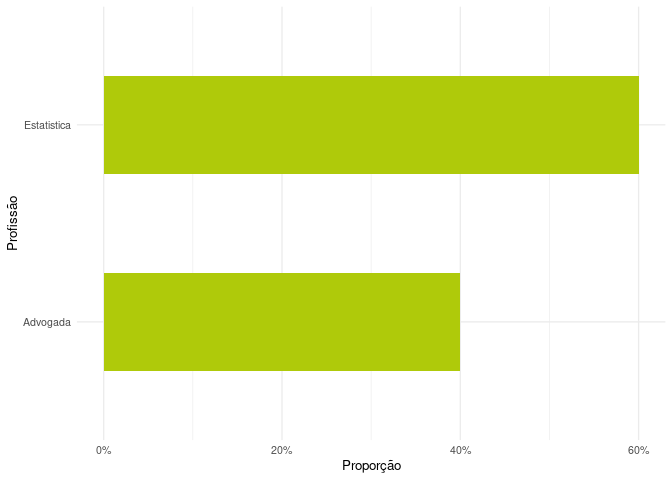
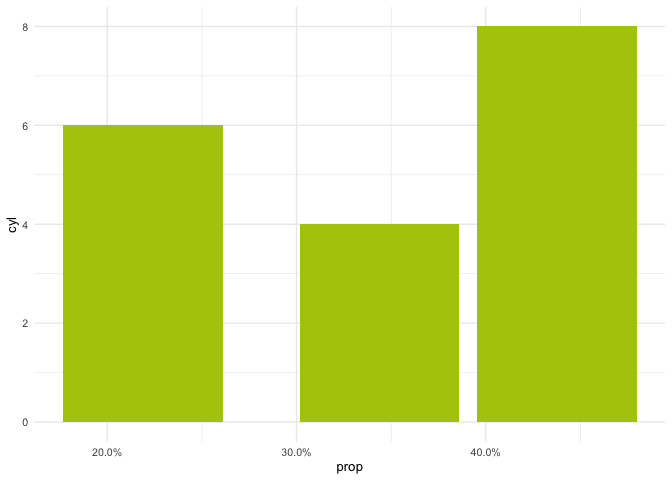
arruma documentacao e melhora readme

diff --git a/README.md b/README.md
@@ -63,23 +63,13 @@ library(magrittr)
 library(ggplot2)
 library(abjDash)
 
-da <- tibble::tribble(
-  ~nome, ~papel, ~estado,
-  "Maria", "Advogada", "SP",
-  "Claudia", "Estatistica", "SP",
-  "Fernanda", "Advogada", "SP",
-  "Joana", "Estatistica", "SP",
-  "Luiza", "Estatistica", "AM",
-)
-
-da %>% 
-  dplyr::count(papel) %>% 
+mtcars %>% 
+  dplyr::count(cyl) %>% 
   dplyr::mutate(prop = n/sum(n)) %>%
   ggplot2::ggplot() +
-  ggplot2::aes(y = papel, x = prop, label = pct(prop)) +
-  ggplot2::geom_col(width = 0.5, fill = "#AFCA0A") +
+  ggplot2::aes(y = cyl, x = prop, label = pct(prop)) +
+  ggplot2::geom_col(fill = "#AFCA0A") +
   ggplot2::scale_x_continuous(labels = scales::percent) +
-  ggplot2::labs(y = "Profissão", x = "Proporção") +
   ggplot2::theme_minimal(10)
 ```
 
